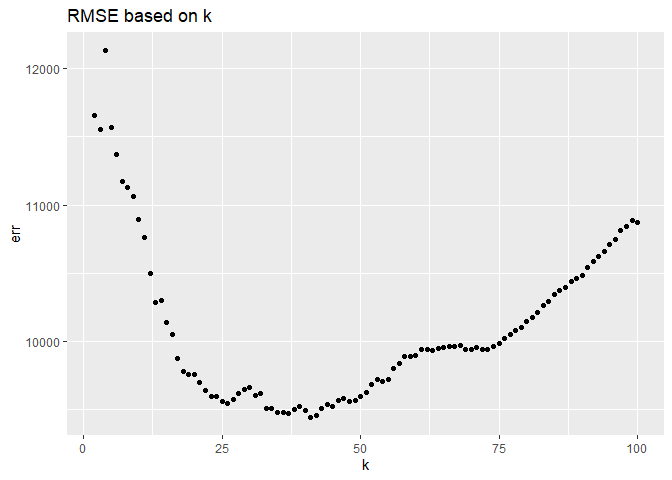
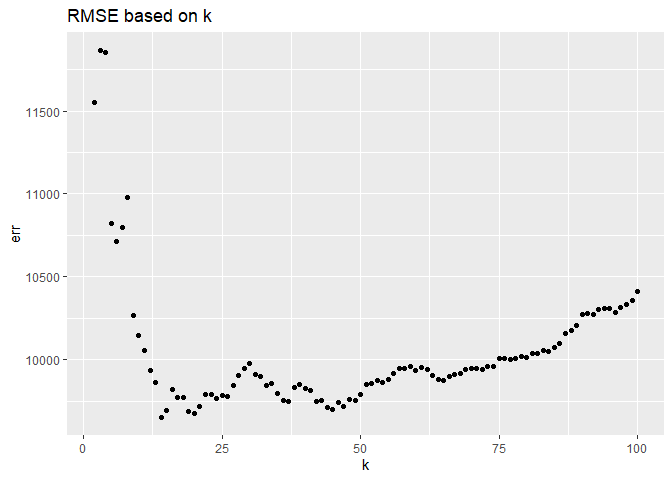
Upload 2.11

diff --git a/Homework_Final.md b/Homework_Final.md
@@ -1,4 +1,4 @@
--   1.  
+-   Question I.
 
 -   Best time of the day to fly in or out of Austin is 5-7 AM
 
@@ -23,16 +23,20 @@
     (5-7AM) doesn’t change that much for different Airlines
 
 ![](Homework_Final_files/figure-markdown_strict/unnamed-chunk-4-1.png)
-\* Best time of the year is Fall and Summer to fly in or out of Austin.
-We see high delays in Spring and Winter, maybe due to holidays.
+
+-   Best time of the year is Fall and Summer to fly in or out of Austin.
+    We see high delays in Spring and Winter, maybe due to holidays.
 
 ![](Homework_Final_files/figure-markdown_strict/unnamed-chunk-5-1.png)
-\* By grouping flying activities by destinations and sorting the data we
-observed that the top 6 most popular destinations are DAL (Dallas), DFW
-(Dallas), IAH (Houston), PHX (Pheonix), DEN (Denver), and ORD
-(Illinois). The bar graph shows high average departure delay in Spring
-especially for Dallas and Illinois. All of the 6 destinations commonly
-show least average departure delay in Fall.
+
+-   By grouping flying activities by destinations and sorting the data
+    we observed that the top 6 most popular destinations are DAL
+    (Dallas), DFW (Dallas), IAH (Houston), PHX (Pheonix), DEN (Denver),
+    and ORD (Illinois). The bar graph shows high average departure delay
+    in Spring especially for Dallas and Illinois. All of the 6
+    destinations commonly show least average departure delay in Fall.
+
+<!-- -->
 
     ## # A tibble: 53 x 2
     ##    Dest  count
@@ -51,7 +55,7 @@ show least average departure delay in Fall.
 
 ![](Homework_Final_files/figure-markdown_strict/unnamed-chunk-6-1.png)
 
--   2A.
+-   Question 2A.
 
 <!-- -->
 
@@ -79,47 +83,31 @@ show least average departure delay in Fall.
     number of weeks spent on the Billboard top 100 equal to 79, 76, and
     76 respectively.
 
--   2B.
+-   Question 2B.
 
 ![](Homework_Final_files/figure-markdown_strict/unnamed-chunk-8-1.png)
-\* Caption: Line graph showing number of unique songs each year from
-1959 to 2020. \* Analysis: We see an increasing trend in musical
-diversity (as measured by number of unique songs) during 1960 and
-reached its peak at 1965. After that number of unique songs declined
-drastically and reached its lowest value of 400 in the year 2000. Then,
-the trend rose exponentially again until 2020.
 
--   2C.
+-   Caption: Line graph showing number of unique songs each year from
+    1959 to 2020.
 
-<!-- -->
+-   Analysis: We see an increasing trend in musical diversity (as
+    measured by number of unique songs) during 1960 and reached its peak
+    at 1965. After that number of unique songs declined drastically and
+    reached its lowest value of 400 in the year 2000. Then, the trend
+    rose exponentially again until 2020.
 
-    ## # A tibble: 64 x 2
-    ## # Groups:   year [64]
-    ##     year     n
-    ##    <int> <int>
-    ##  1  1958   373
-    ##  2  1959  1367
-    ##  3  1960  1313
-    ##  4  1961   941
-    ##  5  1962  1026
-    ##  6  1963   794
-    ##  7  1964   632
-    ##  8  1965   566
-    ##  9  1966   588
-    ## 10  1967   590
-    ## # ... with 54 more rows
+-   Question 2C.
 
 ![](Homework_Final_files/figure-markdown_strict/unnamed-chunk-9-1.png)
-\* Caption: The horizontal bar graph displays total number of song
-appeared on ten weeks hit for each 19 artists. \* Analysis: Ten weeks
-hit is for the songs that appear on Billboard Top 100 for at least 10
-weeks. There are 19 artists with at least 30 songs on ten weeks hit. For
-example, Elton John had 52 songs on ten week hit, meaning, each of the
-52 songs was featured on Billboard Top 100 for at least 10 weeks.
-Madonna had 44 songs on ten weeks hit followed by Kenny Chesney who had
-42 songs.
 
--   3A.
+-   Analysis: Ten weeks hit is for the songs that appear on Billboard
+    Top 100 for at least 10 weeks. There are 19 artists with at least 30
+    songs on ten weeks hit. For example, Elton John had 52 songs on ten
+    week hit, meaning, each of the 52 songs was featured on Billboard
+    Top 100 for at least 10 weeks. Madonna had 44 songs on ten weeks hit
+    followed by Kenny Chesney who had 42 songs.
+
+-   Question 3A.
 
 <!-- -->
 
@@ -130,7 +118,7 @@ Madonna had 44 songs on ten weeks hit followed by Kenny Chesney who had
     events is 183 cm. This means that 95% of the height for female
     across all Athletics events is 183 cm or lower.
 
--   3B.
+-   Question 3B.
 
 <!-- -->
 
@@ -142,75 +130,43 @@ Madonna had 44 songs on ten weeks hit followed by Kenny Chesney who had
 -   Rowing Women’s Coxed Fours had the greatest variability in
     competitor’s height as measured by standard deviation of 10.9.
 
--   3C.
+-   Question 3C.
 
 ![](Homework_Final_files/figure-markdown_strict/unnamed-chunk-12-1.png)
-\* The trend for average age of Olympic swimmers fluctuated a lot since
-1900. \* The trend of the average age for Olympic male swimmers reached
-its peak in the year 1924 with the value of 32 years old. Then the
-average age dropped drastically and reached its minimum in the year 1932
-with the value of 19 years old. After that, the trend has been rising
-slowly and reached the average age of 24.13 in the year 2016. \* The
-trend for women, on the other hand, remained low until 1975. Then it
-rose drastically to reach its peak value of 22.5 in 2000. After that,
-the average ages had been more or less constant at around 22 years old.
-\* The trends for male and female differed substantially and seemed to
-show no correlation. The average age for male reached its peak in the
-year 1924 with the value of 32 years old. While the average ages for
-women was highest in 2000 with the value of 22.5. Overall, the trend of
-average ages for men declined, plateaued and then increased at a
-decreasing rate over time. On the contrary, the trend rose over time for
-women.
 
--   1.  
+-   The trend for average age of Olympic swimmers fluctuated a lot
+    since 1900.
 
-<!-- -->
+-   The trend of the average age for Olympic male swimmers reached its
+    peak in the year 1924 with the value of 32 years old. Then the
+    average age dropped drastically and reached its minimum in the year
+    1932 with the value of 19 years old. After that, the trend has been
+    rising slowly and reached the average age of 24.13 in the year 2016.
 
-    ##        id            trim             subTrim           condition        
-    ##  Min.   :  282   Length:416         Length:416         Length:416        
-    ##  1st Qu.:14290   Class :character   Class :character   Class :character  
-    ##  Median :26658   Mode  :character   Mode  :character   Mode  :character  
-    ##  Mean   :26520                                                           
-    ##  3rd Qu.:39599                                                           
-    ##  Max.   :52220                                                           
-    ##   isOneOwner           mileage            year         color          
-    ##  Length:416         Min.   :     6   Min.   :1994   Length:416        
-    ##  Class :character   1st Qu.: 19264   1st Qu.:2006   Class :character  
-    ##  Mode  :character   Median : 29998   Median :2012   Mode  :character  
-    ##                     Mean   : 42926   Mean   :2010                     
-    ##                     3rd Qu.: 63479   3rd Qu.:2012                     
-    ##                     Max.   :173000   Max.   :2013                     
-    ##  displacement           fuel              state              region         
-    ##  Length:416         Length:416         Length:416         Length:416        
-    ##  Class :character   Class :character   Class :character   Class :character  
-    ##  Mode  :character   Mode  :character   Mode  :character   Mode  :character  
-    ##                                                                             
-    ##                                                                             
-    ##                                                                             
-    ##  soundSystem         wheelType          wheelSize          featureCount   
-    ##  Length:416         Length:416         Length:416         Min.   :  0.00  
-    ##  Class :character   Class :character   Class :character   1st Qu.: 31.75  
-    ##  Mode  :character   Mode  :character   Mode  :character   Median : 54.00  
-    ##                                                           Mean   : 49.22  
-    ##                                                           3rd Qu.: 70.00  
-    ##                                                           Max.   :112.00  
-    ##      price       
-    ##  Min.   :  6600  
-    ##  1st Qu.: 19401  
-    ##  Median : 52900  
-    ##  Mean   : 46854  
-    ##  3rd Qu.: 61991  
-    ##  Max.   :106010
+-   The trend for women, on the other hand, remained low until 1975.
+    Then it rose drastically to reach its peak value of 22.5 in 2000.
+    After that, the average ages had been more or less constant at
+    around 22 years old.
+
+-   The trends for male and female differed substantially and seemed to
+    show no correlation. The average age for male reached its peak in
+    the year 1924 with the value of 32 years old. While the average ages
+    for women was highest in 2000 with the value of 22.5. Overall, the
+    trend of average ages for men declined, plateaued and then increased
+    at a decreasing rate over time. On the contrary, the trend rose over
+    time for women.
+
+-   Question 4.
 
 ![](Homework_Final_files/figure-markdown_strict/unnamed-chunk-13-1.png)
 
     ##          k      err
-    ## result.1 2 11656.80
-    ## result.2 3 11551.43
-    ## result.3 4 12127.59
-    ## result.4 5 11565.23
-    ## result.5 6 11369.22
-    ## result.6 7 11171.36
+    ## result.1 2 11548.63
+    ## result.2 3 11862.76
+    ## result.3 4 11854.66
+    ## result.4 5 10824.22
+    ## result.5 6 10715.23
+    ## result.6 7 10796.08
 
 ![](Homework_Final_files/figure-markdown_strict/unnamed-chunk-13-2.png)
 
@@ -218,55 +174,19 @@ women.
     ##  Range:  
     ##  Limits:    0 --    1
 
-    ## [1] 41
+    ## [1] 14
 
 ![](Homework_Final_files/figure-markdown_strict/unnamed-chunk-13-3.png)![](Homework_Final_files/figure-markdown_strict/unnamed-chunk-13-4.png)
-
-    ##        id            trim             subTrim           condition        
-    ##  Min.   : 1060   Length:292         Length:292         Length:292        
-    ##  1st Qu.:13977   Class :character   Class :character   Class :character  
-    ##  Median :26557   Mode  :character   Mode  :character   Mode  :character  
-    ##  Mean   :26444                                                           
-    ##  3rd Qu.:38687                                                           
-    ##  Max.   :52326                                                           
-    ##   isOneOwner           mileage            year         color          
-    ##  Length:292         Min.   :     1   Min.   :2006   Length:292        
-    ##  Class :character   1st Qu.:    20   1st Qu.:2007   Class :character  
-    ##  Mode  :character   Median : 28803   Median :2010   Mode  :character  
-    ##                     Mean   : 33700   Mean   :2010                     
-    ##                     3rd Qu.: 58496   3rd Qu.:2015                     
-    ##                     Max.   :146975   Max.   :2015                     
-    ##  displacement           fuel              state              region         
-    ##  Length:292         Length:292         Length:292         Length:292        
-    ##  Class :character   Class :character   Class :character   Class :character  
-    ##  Mode  :character   Mode  :character   Mode  :character   Mode  :character  
-    ##                                                                             
-    ##                                                                             
-    ##                                                                             
-    ##  soundSystem         wheelType          wheelSize          featureCount   
-    ##  Length:292         Length:292         Length:292         Min.   :  0.00  
-    ##  Class :character   Class :character   Class :character   1st Qu.: 17.00  
-    ##  Mode  :character   Mode  :character   Mode  :character   Median : 58.00  
-    ##                                                           Mean   : 48.09  
-    ##                                                           3rd Qu.: 72.00  
-    ##                                                           Max.   :112.00  
-    ##      price       
-    ##  Min.   : 18990  
-    ##  1st Qu.: 48711  
-    ##  Median : 79995  
-    ##  Mean   :117121  
-    ##  3rd Qu.:225975  
-    ##  Max.   :247075
 
 ![](Homework_Final_files/figure-markdown_strict/unnamed-chunk-14-1.png)
 
     ##          k      err
-    ## result.1 2 28103.05
-    ## result.2 3 26625.64
-    ## result.3 4 23819.74
-    ## result.4 5 24606.19
-    ## result.5 6 23069.60
-    ## result.6 7 21639.87
+    ## result.1 2 26419.57
+    ## result.2 3 26078.86
+    ## result.3 4 26068.23
+    ## result.4 5 27048.34
+    ## result.5 6 26441.98
+    ## result.6 7 26386.83
 
 ![](Homework_Final_files/figure-markdown_strict/unnamed-chunk-14-2.png)
 
@@ -274,13 +194,15 @@ women.
     ##  Range:  
     ##  Limits:    0 --    1
 
-    ## [1] 13
+    ## [1] 4
 
 ![](Homework_Final_files/figure-markdown_strict/unnamed-chunk-14-3.png)![](Homework_Final_files/figure-markdown_strict/unnamed-chunk-14-4.png)
-\* trim = 350 yields a larger optimal k of 17 over 13 in case of trim =
-65 AMG \* The sample size for trim = 350 is higher than that for trim =
-65. If we have larger sample size, we can afford higher k without the
-bias being too high. This is because you’re averaging the points around
-the neighborhood. This is about bias-variance trade off. On the
-contrary, if you have small sample size, you’re averaging the data
-points further away, causing the bias to be high.
+
+-   trim = 350 yields a larger optimal k of 12 over 7 in case of trim =
+    65 AMG
+-   The sample size for trim = 350 is higher than that for trim = 65. If
+    we have larger sample size, we can afford higher k without the bias
+    being too high. This is because you’re averaging the points around
+    the neighborhood. This is about bias-variance trade off. On the
+    contrary, if you have small sample size, you’re averaging the data
+    points further away, causing the bias to be high.
